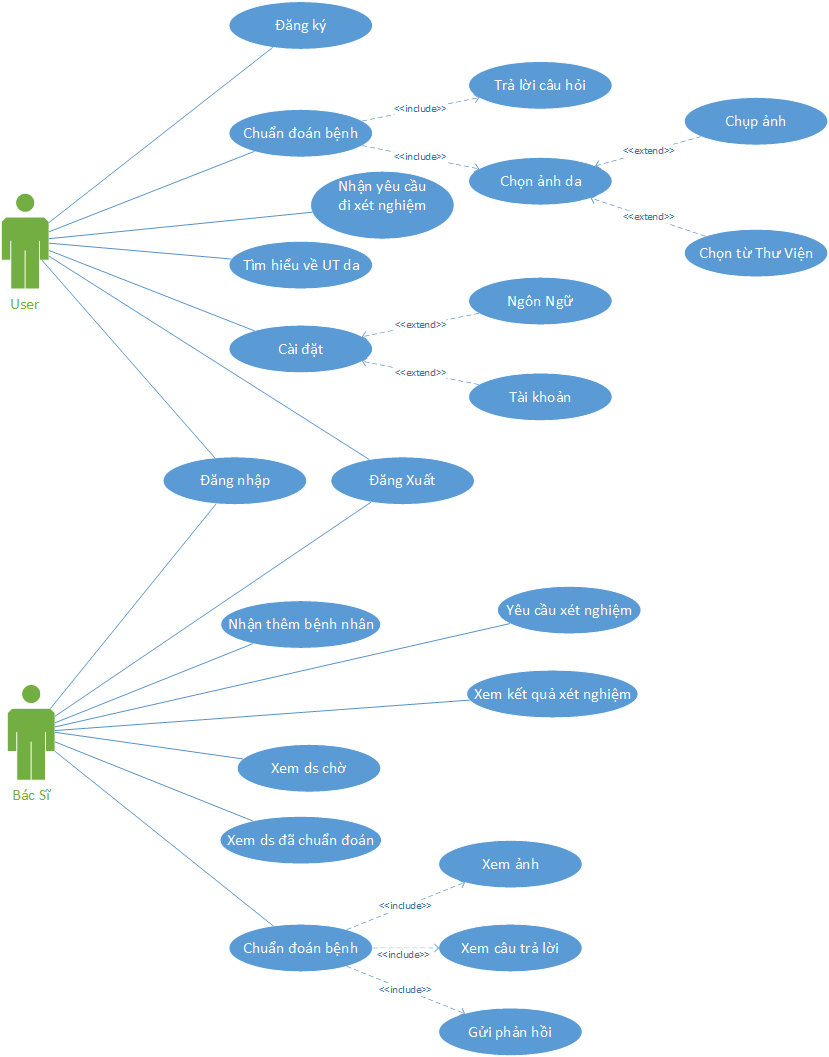
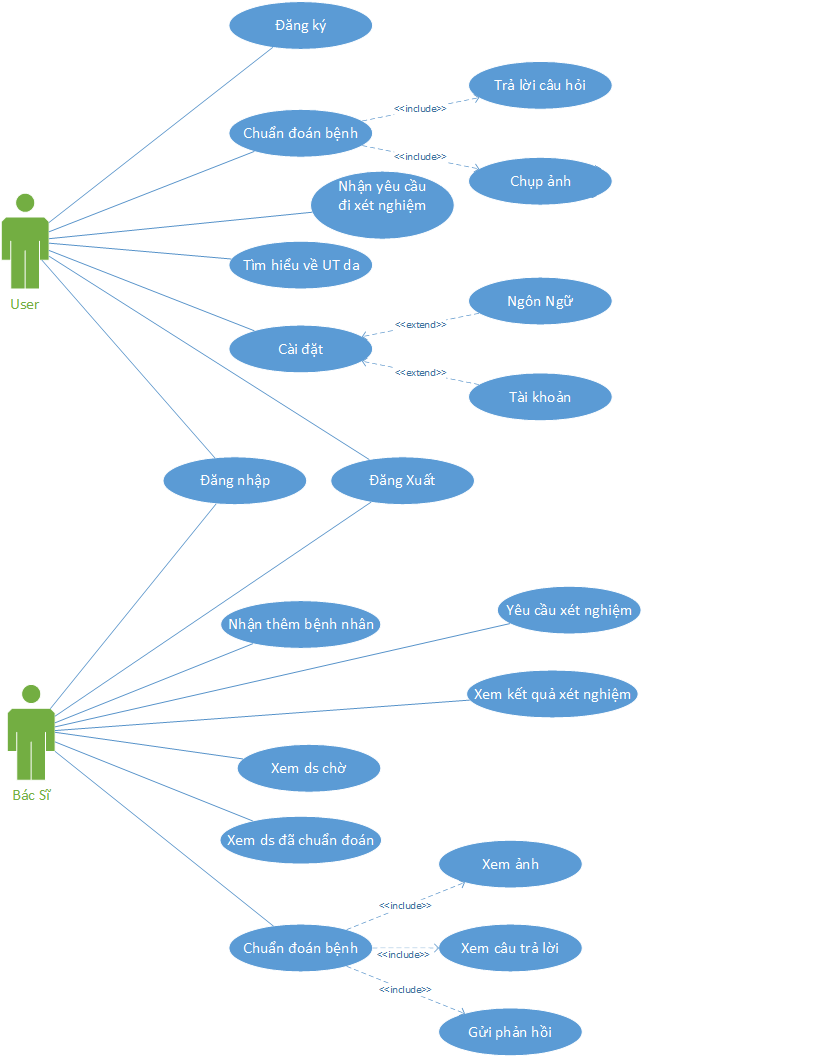
update usecase, upload Keras.py

diff --git a/Keras.py b/Keras.py
@@ -1,0 +1,95 @@
+import os # lấy đường dẩn
+import cv2 # xử lí ảnh và ma trận
+import numpy as np # xử lí ma trận
+from keras.layers import Dense, Flatten #dùng xử lý các layers của Keras
+from keras.models import Sequential #dùng để tạo model dùng trong thuật toán Keras
+from keras import metrics 
+import keras # sử dụng thư viện Keras
+
+
+# duong dan toi thu muc chua ảnh
+PATH = 'C:\\date\\hoa\\hd\\'
+PATH2 = 'C:\\date\\hoa\\hong\\'
+#chuyen doi anh thanh ma tran
+imgw = cv2.imread(PATH + '1.jpg')
+# resize lai kich thuoc ma tran
+img_resizew = cv2.resize(imgw, (1000, 1000))
+# cho ma tran vao list tên listx ( khoi tao list)
+listx = [img_resizew]
+# vong for lay tung anh trong file bo vao list voi kieu ma tran
+for i in range(2,21): # cho vòng lập chạy từ i = 2 đến i = 20
+	img = cv2.imread(PATH + str(i) + '.jpg') # chuyển ảnh thành ma trận (ảnh lấy từ thư mục PATH và ảnh có tên i.jpg)
+	img_resize = cv2.resize(img, (1000, 1000)) #resize lại kích thước của ma trận img thành 1000x1000
+	listx.extend([img_resize]) # add ma trận img_resize vào list có tên listx
+for i in range(1,21): # cho vòng lập chạy tờ i = 1 đên i = 20
+	img = cv2.imread(PATH2 + str(i) + '.jpg')  # chuyển ảnh thành ma trận (ảnh lấy từ thư mục PATH2 và ảnh có tên i.jpg)
+	img_resize = cv2.resize(img, (1000, 1000))	 #resize lại kích thước của ma trận img thành 1000x1000
+	listx.extend([img_resize])  # add ma trận img_resize vào list có tên listx
+# doi kieu list thanh kieu ma tran
+x_train = np.asarray(listx)
+x_train = x_train/255. # chia mỏi phần tử trong ma trận x_train cho 255
+#in ra màng hình kích thước của ma trận x_train
+print(x_train.shape)
+
+
+"""
+tao y train [1 0] hoa huong duong 
+[0 1] khong phai hoa huong duong 
+"""
+listy = [[1,0]] # khởi tạo giá trị đầu cho list(chứa ma trận) có tên là listy
+for i in range(1,40): # cho vòng lập chạy từ i = 1 đến i = 39
+	if(i < 20):
+		listy.extend([[1,0]]) # cho 20 phần tử ma trận đầu của list tên listy có giá [1,0]
+	else:
+		listy.extend([[0,1]]) # cho 20 phần tử ma trận tiếp theo của list tên listy có giá [0,1]
+y_train =np.asarray(listy) # đổi kiểu list thành kiểu ma trận
+print(y_train.shape) # in ra kích thước của ma trận tên y_train
+
+""" da co tap du lieu tien hanh code"""
+num_classes = 2 # 0 hoac 1
+model = Sequential() # khởi tạo model có kiểu Sequential (tuyến tín)
+#flatten: lam phang ma tran
+model.add(Flatten(input_shape=(1000, 3000)))
+
+#dense: tao ra layer, 8 So luong node trong hidden layer(cung la input layer),activation: ham kich hoat cua tung node
+model.add(Dense(8, activation='relu'))
+
+#ouput later co 2 node , softmax: tinh xac xuat cho 2 node 0 va 1 de dua ra kq cho anh  
+model.add(Dense(num_classes, activation='softmax'))
+#loss: ham mat mat categorical_crossentropy
+#optimizer ham toi uu, sgd: gradient descent
+model.compile(loss=keras.losses.categorical_crossentropy,
+              optimizer=keras.optimizers.SGD(lr=0.1),
+              metrics=['accuracy'])
+x_train.shape = (40,1000,3000)
+# dua du lieu cho model hoc, 25: cho theo 2^n, epochs: so lan chay, moi lan chay epochs thi no chi chay qua moi diem du lieu 1 lan
+model.fit(x_train, y_train, batch_size=25, epochs = 1)
+# tinh do chinh xac cua model
+score = model.evaluate(x_train, y_train)
+
+print("Do chinh xac:", score[1]*100,"%")
+
+# doc hinh thanh ma tran
+img = cv2.imread(PATH + '1.jpg')# lay anh trong Path
+# resize lai kich thuoc ma tran
+img_resize = cv2.resize(imgw, (1000, 1000))
+# cho ma tran vao list ( khoi tao list)
+list = [img_resizew]# khoi tao gia tri dau tien cho list
+# sau khi co model thi su dung model de test du lieu moi
+for i in range(10,14):# lay 4 anh trong PATH
+	img = cv2.imread(PATH + str(i) + '.jpg')
+	img_resize = cv2.resize(img, (1000, 1000))# chinh lai kich thuoc cua anh
+	list.extend([img_resize])# add matrix vao list
+#tao ma tran
+x_test = np.asarray(list)
+#5: co 5 anh co kich thuoc 1000x3000
+x_test.shape = (5,1000,3000)
+
+print(model.predict(x_test)) # in ra giá trị nhản của tập x_test
+			  
+
+
+
+
+
+	
